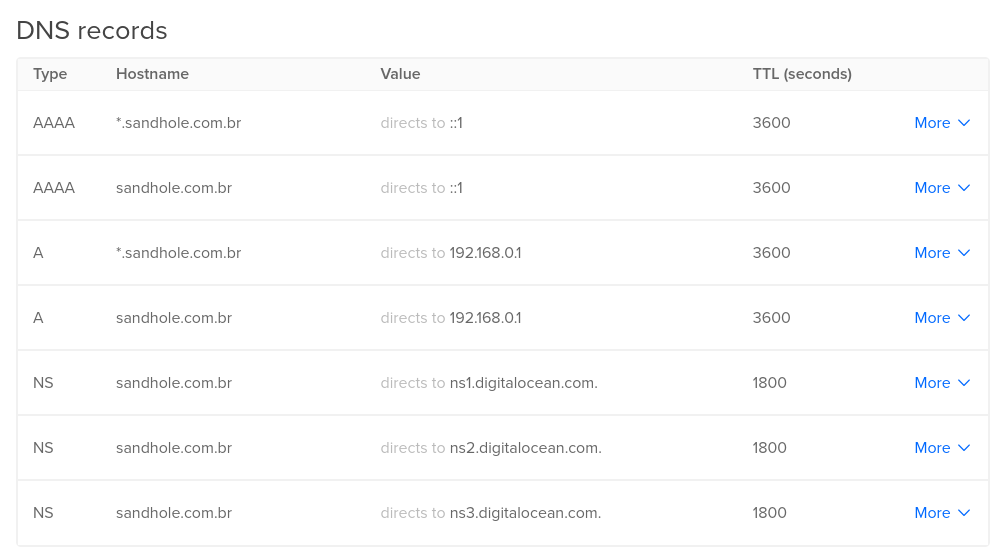
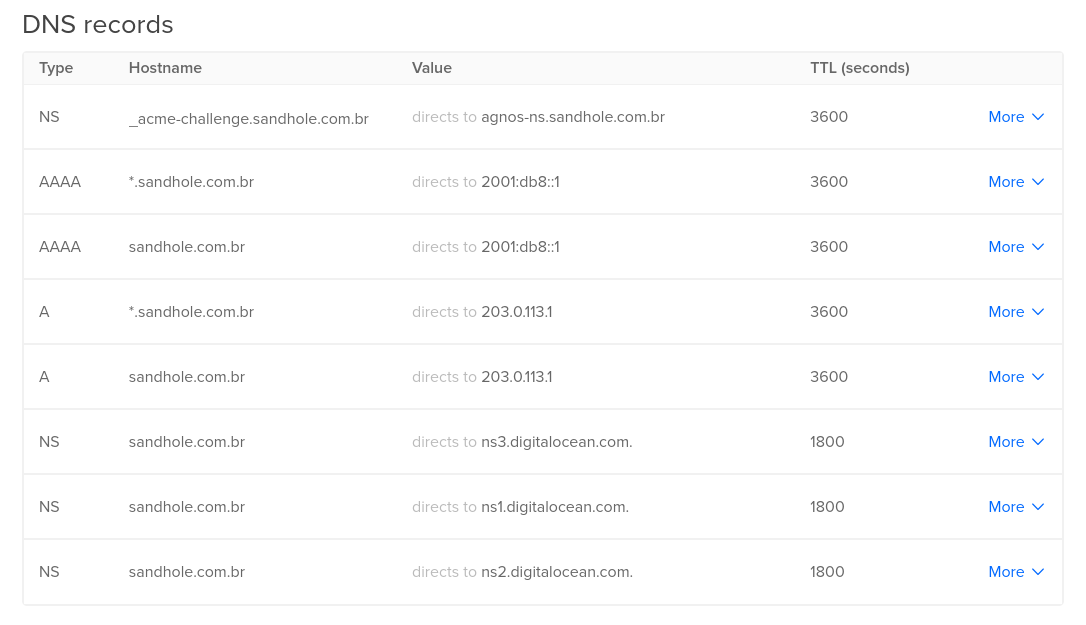
Updates to book

diff --git a/book/src/quick_start.md b/book/src/quick_start.md
@@ -7,11 +7,11 @@ In order to run Sandhole, you'll need:
 
 ## 1. Configure your DNS
 
-Make sure to point the `A` and `AAAA` records to your server's IP address(es).
+Make sure to point the `A` and `AAAA` records to your server's IP address(es). If you intend to use Agnos (recommended), also set an `NS` record for `_acme-challenge.sandhole.com.br` to `agnos-ns.sandhole.com.br` (or any other domain that will reach your Sandhole instance).
 
-This step varies depending on your choice of DNS provider. For example, on DigitalOcean, this is what the configuration might look like:
+How to set up your DNS records depends on your choice of DNS provider. For example, on DigitalOcean, this is what the configuration might look like:
 
-![A table showing DNS records for "sandhole.com.br" and "*.sandhole.com.br" pointing to IPv4 and IPv6 addresses.](./digitalocean_dns.png)
+![A table showing DNS records for "sandhole.com.br" and "*.sandhole.com.br" pointing to IPv4 and IPv6 addresses, as well as "_acme-challenge.sandhole.com.br" having its nameservers redirected to "agnos-ns.sandhole.com.br".](./digitalocean_dns.png)
 
 ## 2. Get the executable
 
@@ -27,7 +27,7 @@ wget --output-document sandhole https://github.com/EpicEric/sandhole/releases/la
 wget --output-document sandhole https://github.com/EpicEric/sandhole/releases/latest/download/sandhole-linux-arm64
 ```
 
-If you prefer, you may also use [Docker Compose](./docker_compose.md) or [compile the binary yourself](./compiling_from_source.md).
+If you prefer, you may also use [Docker Compose](./docker_compose.md) (recommended) or [compile the binary yourself](./compiling_from_source.md).
 
 ## 3. Run Sandhole
 

diff --git a/book/src/technical_overview.md b/book/src/technical_overview.md
@@ -47,4 +47,4 @@ ssh -p 2222 -R mytunnel:80:localhost:8080 sandhole.com.br
 
 6. Sandhole forwards the reply to client B.
 
-To client A, requests arrive normally at the socket, despite only having an outbound SSH connection. To client B, Sandhole acts as if it were the service itself.
+To client A, requests arrive normally at the socket, despite only having an outbound SSH connection; to client B, Sandhole transparently acts as if it were the service itself.

diff --git a/book/src/SUMMARY.md b/book/src/SUMMARY.md
@@ -6,8 +6,8 @@
 - [Quick start](./quick_start.md)
   - [Using Docker Compose](./docker_compose.md)
   - [Compiling from source](./compiling_from_source.md)
-- [Configuration](./configuration.md)
 - [TLS support](./tls_support.md)
+- [Configuration](./configuration.md)
 - [Admin interface](./admin_interface.md)
 
 # User guide

diff --git a/book/src/compiling_from_source.md b/book/src/compiling_from_source.md
@@ -24,3 +24,5 @@ cargo install --locked --git https://github.com/EpicEric/sandhole
 ```
 
 Cargo should automatically add the binary to your `PATH`.
+
+Finally, make sure to configure [a TLS provider](./tls_support.md).
